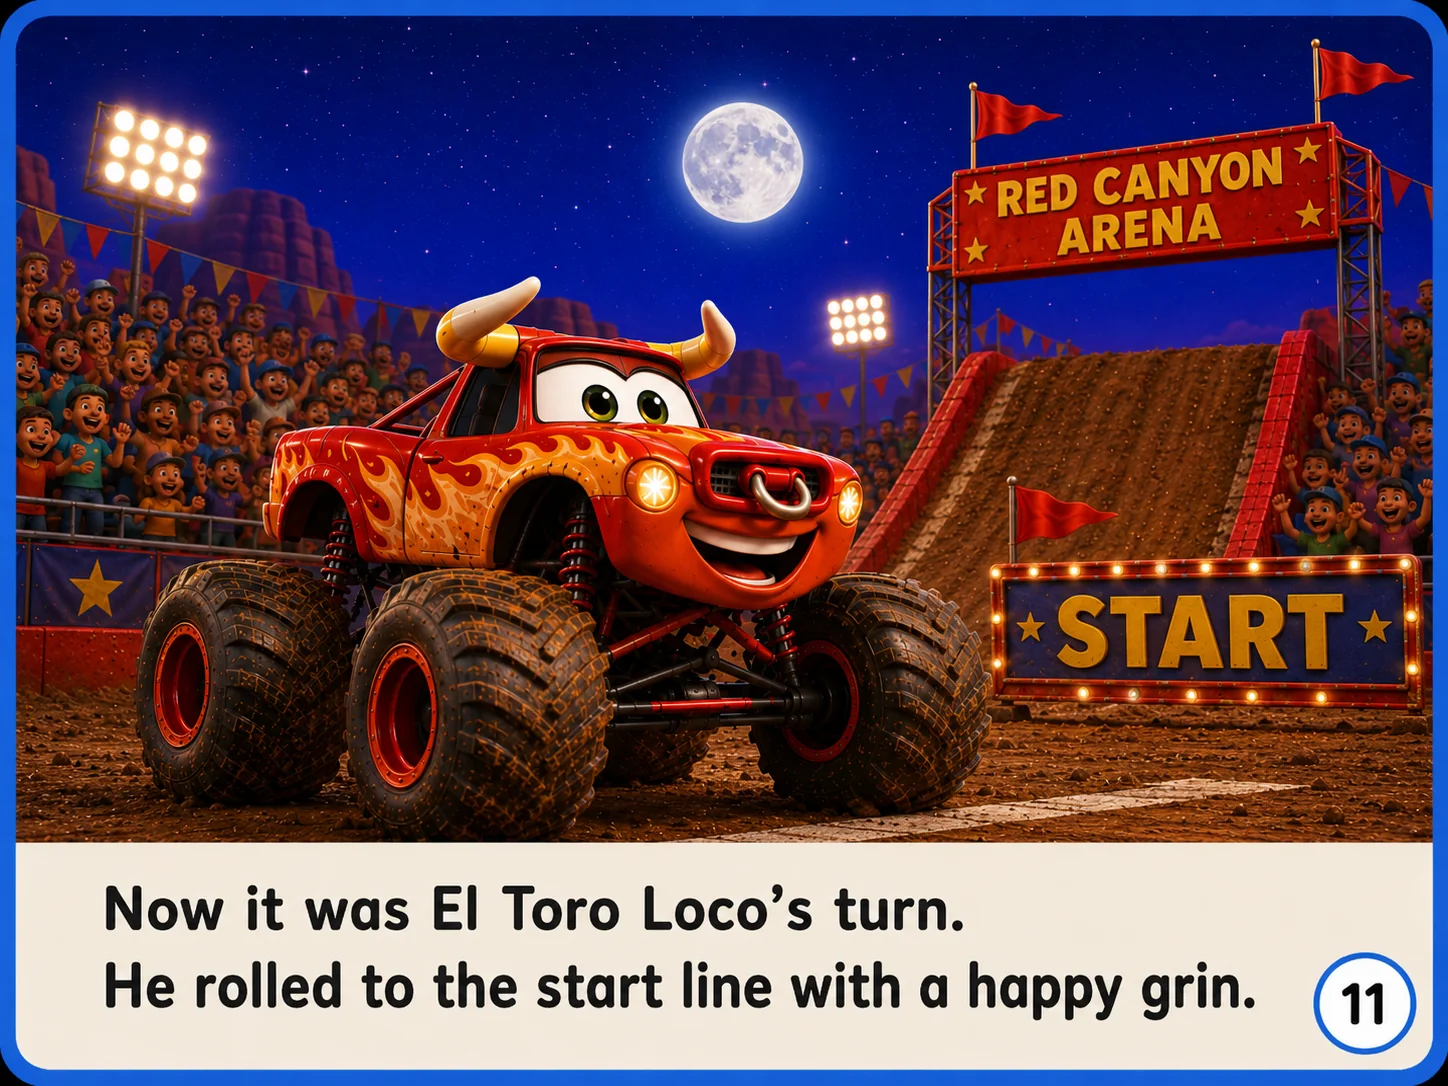
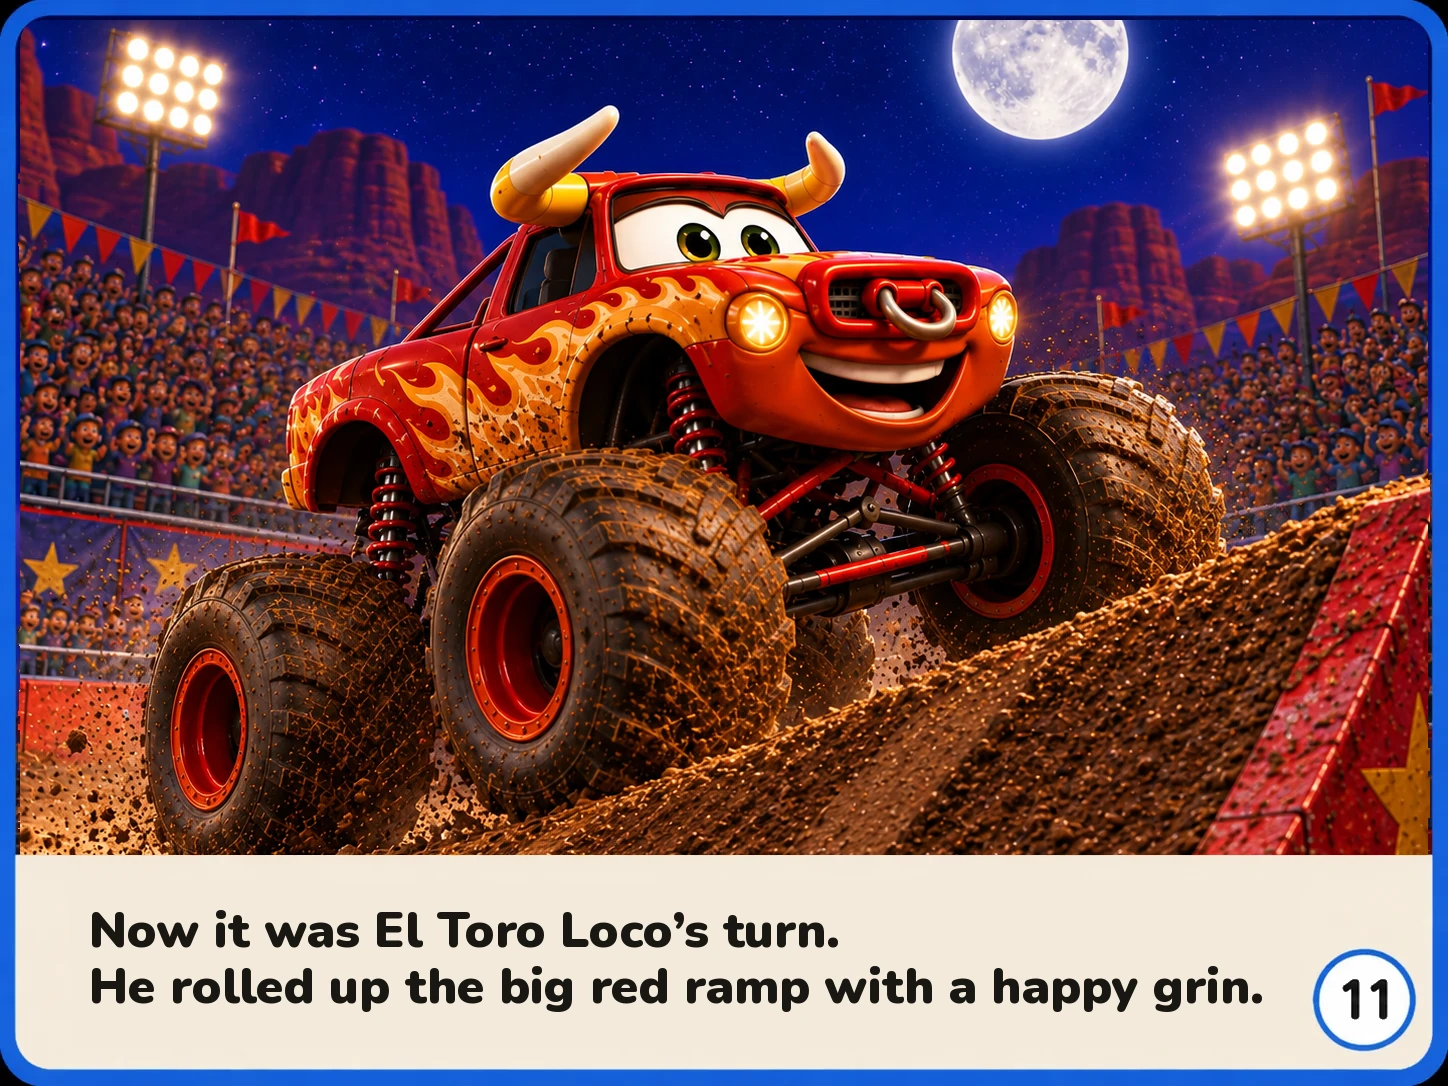
Repair El Toro page 11 ramp illustration and caption.

diff --git a/app.js b/app.js
@@ -174,7 +174,7 @@ narration: [
   "Vroom! He raced up the Big Red Jump. Then he sailed through the air!",
   "Thump! El Toro Loco landed softly. ‘The track is perfect!’ everyone cheered.",
   "Soon the line moved again. One by one, the monster trucks took their turns.",
-  "Now it was El Toro Loco’s turn. He waited at the start line with a happy grin.",
+  "Now it was El Toro Loco’s turn. He rolled up the big red ramp with a happy grin.",
   "Then El Toro Loco flew high over the Big Air ramp. Dirt sparkled as he soared under the moon.",
   "The crowd clapped and cheered. “Hooray for El Toro Loco!” shouted his friends.",
   "El Toro Loco smiled at his helpers. “We fixed the track together!” he said.",

diff --git a/sw.js b/sw.js
@@ -1,4 +1,4 @@
-const CACHE='nolan-library-v53';
+const CACHE='nolan-library-v54';
 const CORE=['./','index.html','styles.css','app.js','config/narration-voices.json','manifest.webmanifest','assets/icons/icon-192.png','assets/icons/icon-512.png'];
 self.addEventListener('install',e=>e.waitUntil(caches.open(CACHE).then(c=>c.addAll(CORE)).then(()=>self.skipWaiting())));
 self.addEventListener('activate',e=>e.waitUntil(caches.keys().then(keys=>Promise.all(keys.filter(k=>k!==CACHE).map(k=>caches.delete(k)))).then(()=>self.clients.claim())));
